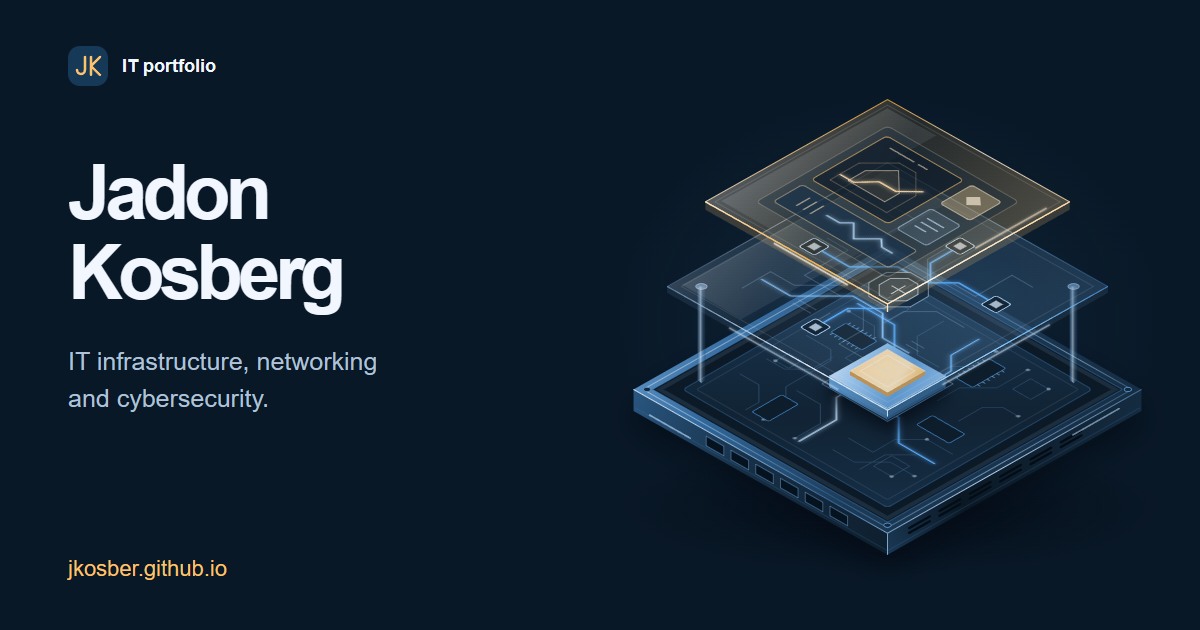
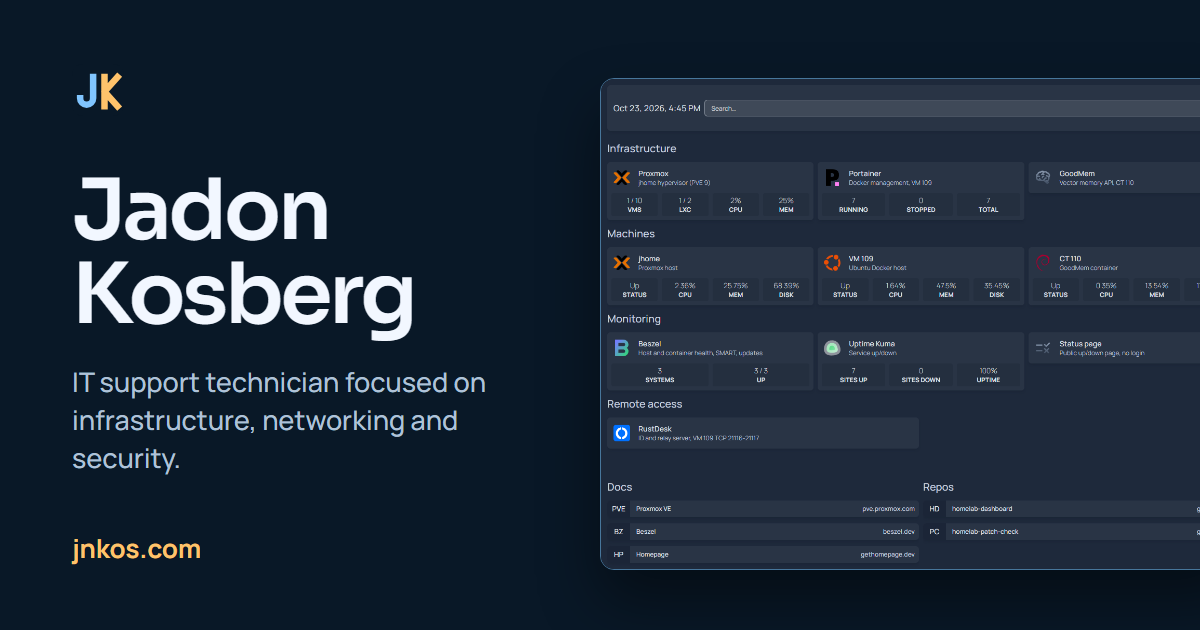
Replace the link-preview card with one for jnkos.com

diff --git a/overrides/main.html b/overrides/main.html
@@ -3,7 +3,7 @@
 {% set page_title = (page.meta.title or page.title) if page else 'Page not found' %}
 {% set full_title = page_title ~ ' | ' ~ config.site_name if not page or not page.is_homepage else config.site_name %}
 {% set page_description = (page.meta.description or config.site_description) if page else 'This page could not be found. Browse projects and professional experience from Jadon Kosberg.' %}
-{% set social_image_alt = 'Jadon Kosberg — IT portfolio. IT infrastructure, networking and cybersecurity, beside an exploded technical assembly.' %}
+{% set social_image_alt = 'Jadon Kosberg, IT support technician focused on infrastructure, networking and security, beside a screenshot of his homelab dashboard. jnkos.com.' %}
 <head>
   <meta charset="utf-8">
   <meta name="viewport" content="width=device-width, initial-scale=1">
